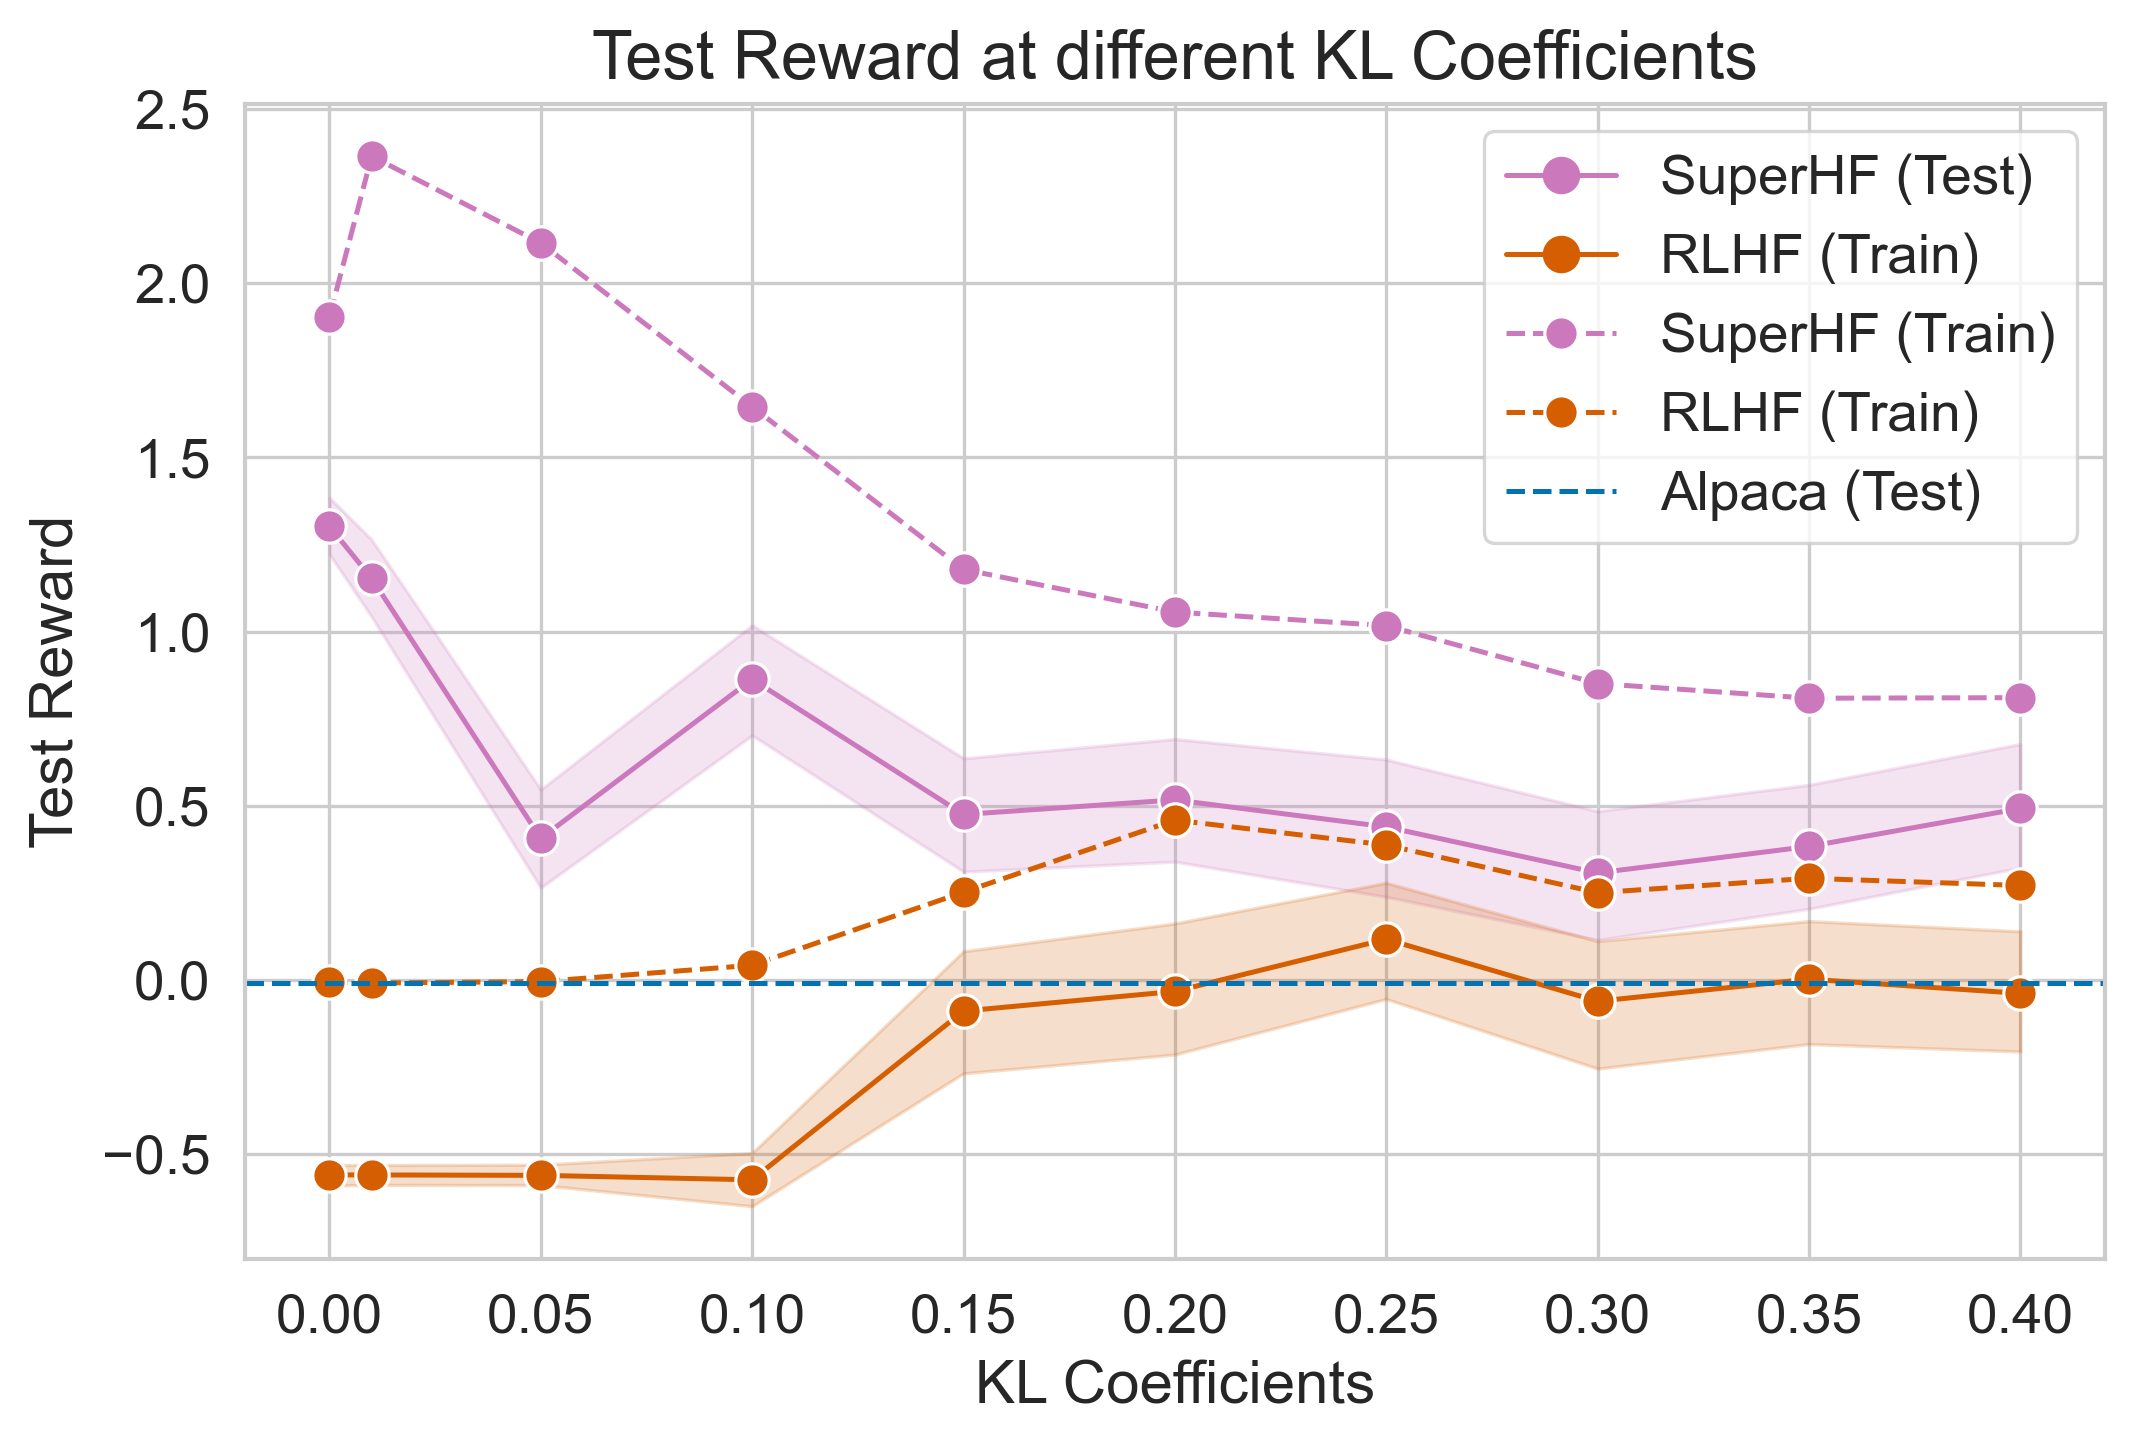
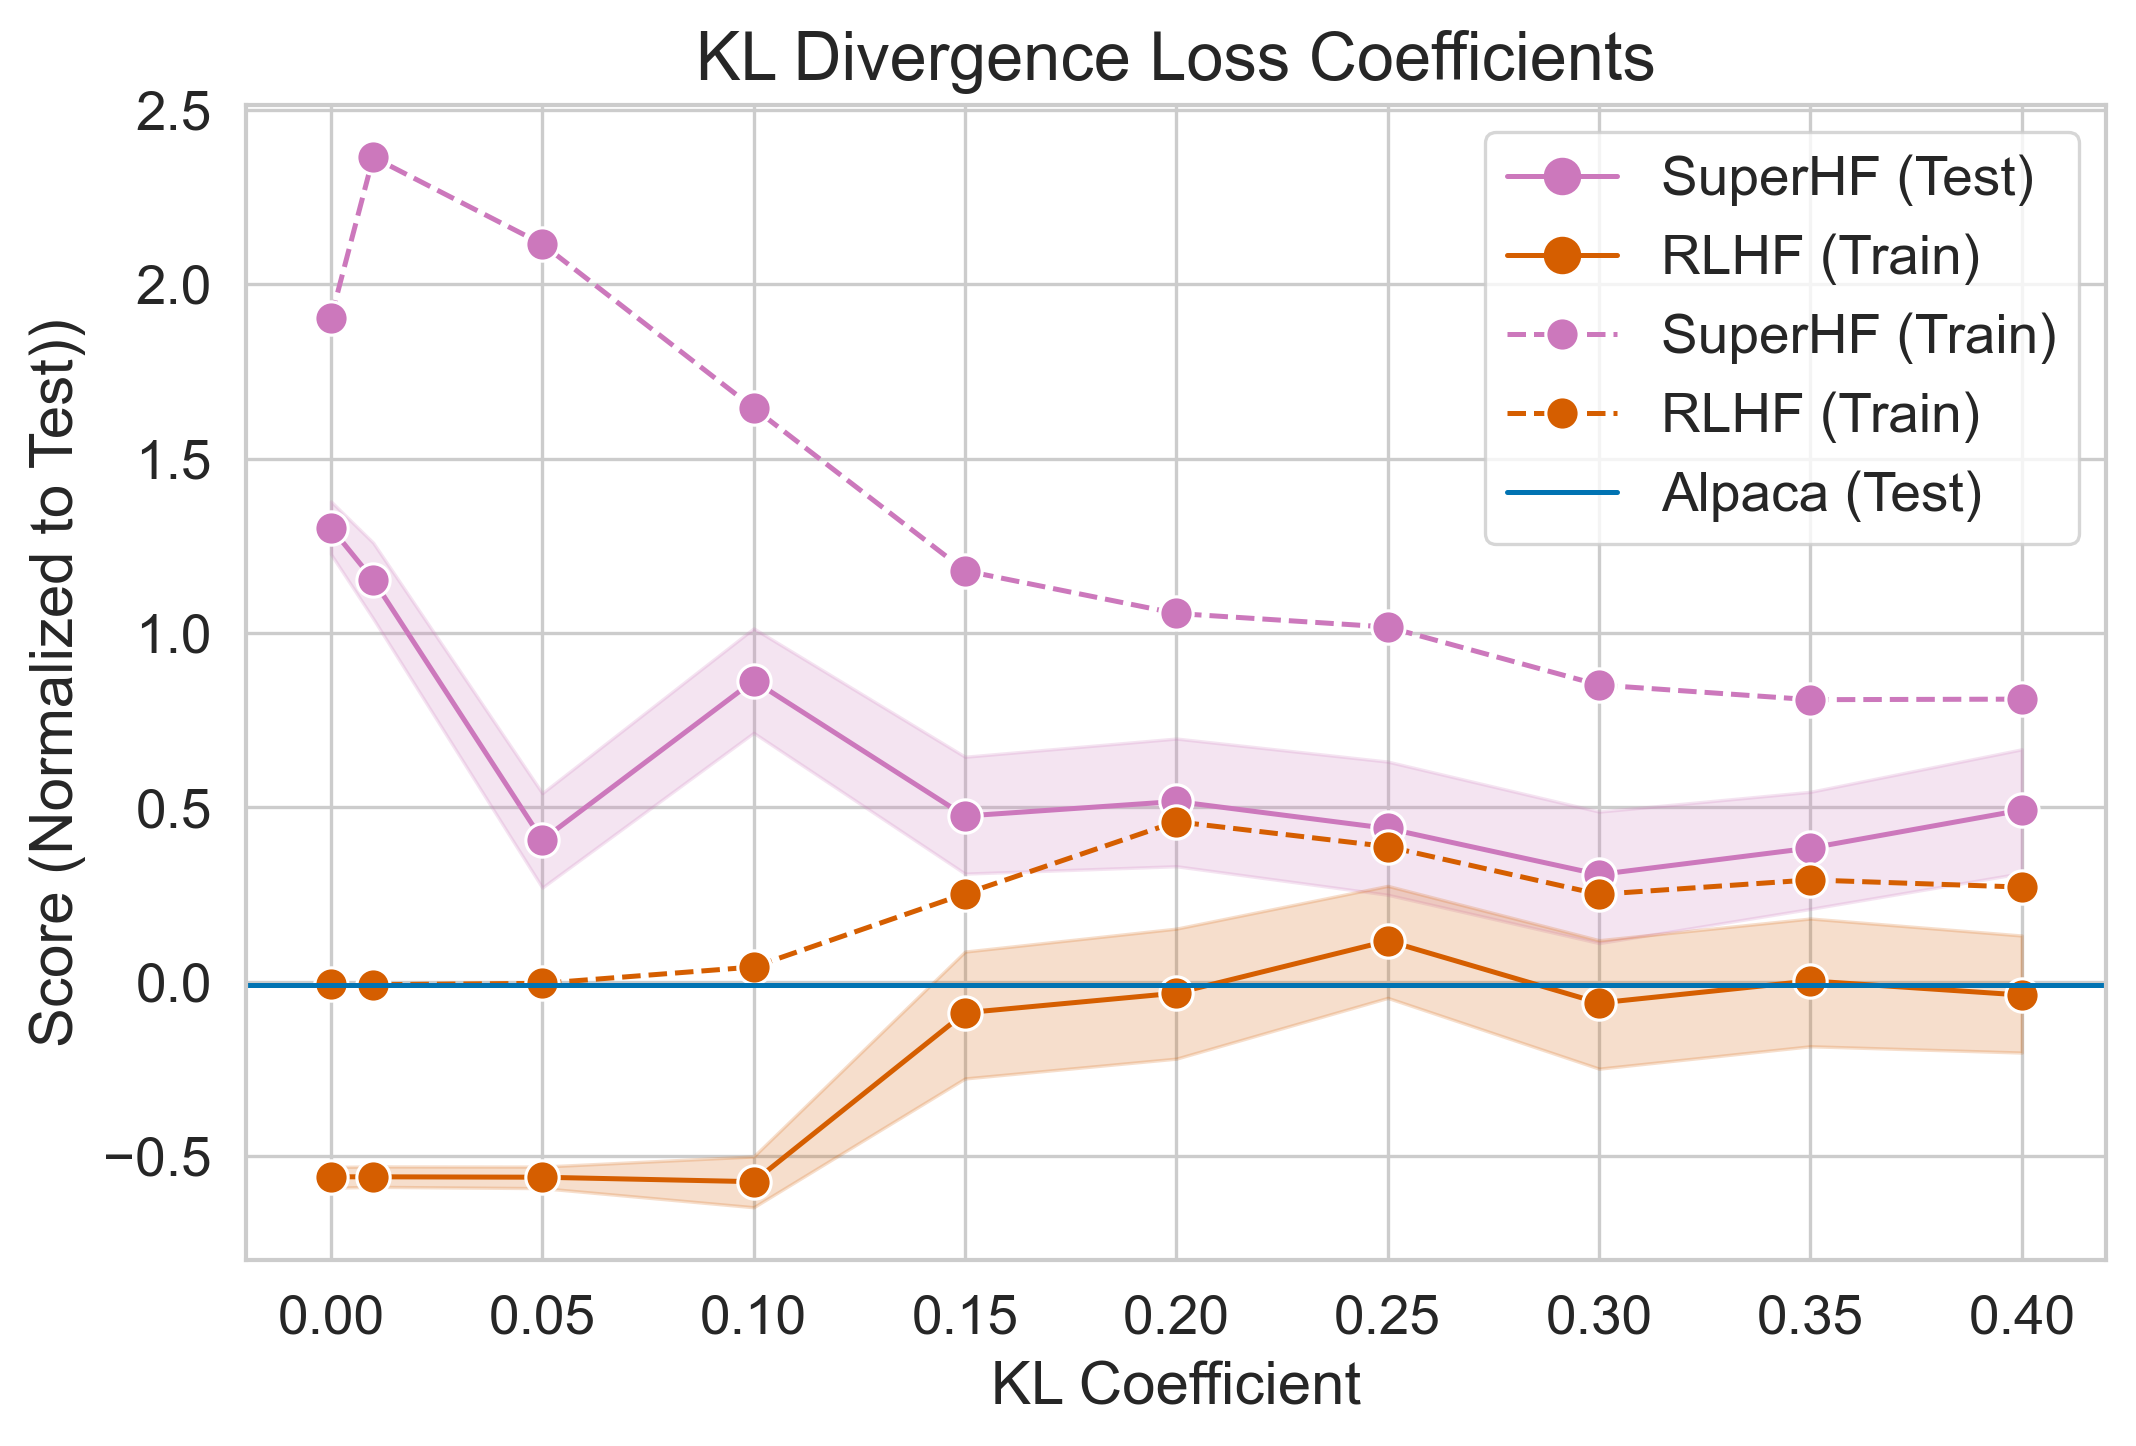
Tweak graphs

diff --git a/charts/model_comparsions.py b/charts/model_comparsions.py
@@ -27,16 +27,16 @@ def main() -> None:
     model_names = [
         "llama-7b.json",
         "alpaca_7b.json",
-        "gpt-4_2023-05-13_completions_output.json",
         "sft-on-preferences-v1.json",
         # "test-save-alpaca@model-2048-prompts-batch-size-8.json",
         "rlhf-v3-lr-5.0e-6-batch-16@gold-run.json",
         "shf-7b-default.json",
         # "shf-7b-gold-v1.json",
+        "gpt-4_2023-05-13_completions_output.json",
     ]
 
     # Create an empty list for x-axis labels
-    x_labels = ["LLaMA", "Alpaca", "GPT-4", "SFT", "RLHF", "SuperHF"]
+    x_labels = ["LLaMA", "Alpaca", "SFT", "RLHF", "SuperHF", "GPT-4"]
 
     # Calculate plot values for data
     all_data = []

diff --git a/charts/kl_coefficient.py b/charts/kl_coefficient.py
@@ -114,16 +114,16 @@ def main() -> None:
     plt.axhline(
         y=ALPACA_TEST_REWARD,
         color=model_type_to_palette_color("pretrained"),
-        linestyle="--",
+        # linestyle="--",
         label="Alpaca (Test)",
         marker="",
     )
     plt.legend()
 
     # Set labels and title
-    plt.xlabel("KL Coefficients")
-    plt.ylabel("Test Reward")
-    plt.title("Test Reward at different KL Coefficients")
+    plt.xlabel("KL Coefficient")
+    plt.ylabel("Score (Normalized to Test))")
+    plt.title("KL Divergence Loss Coefficients")
 
     # Save the plot
     save_plot(OUTPUT_FILE)

diff --git a/charts/model_size.py b/charts/model_size.py
@@ -108,8 +108,8 @@ def main() -> None:
 
     # Set labels and title
     plt.xlabel("Parameters")
-    plt.ylabel("Test Score")
-    plt.title("SuperHF Scaling (Pythia Model Suite)")
+    plt.ylabel("Score (Normalized to Test)")
+    plt.title("Parameter Scaling (Pythia Model Suite)")
 
     # Save the plot
     save_plot(OUTPUT_FILE)
